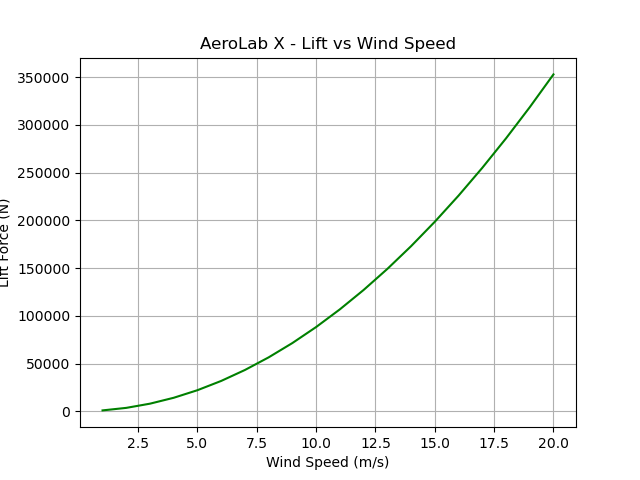
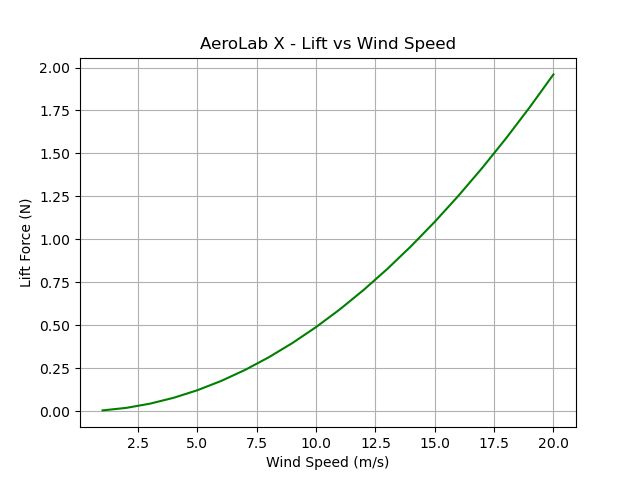
Release AeroLab X V1 : lift simulator and graphs

diff --git a/main.py b/main.py
@@ -1,25 +1,36 @@
+'''
+open main.py and run the program. this is terminal only for now. this only calculates lift. you will need to add the following as shown in the teminal. A graph will appear after the input. but i could not show it as it was not available on xbox game bar recording. 
+
+'''
 import matplotlib.pyplot as plt
 
 print("Welcome to the areodynamic lift calculator!")
 '''
 the equation for lift is : 0.5 * air density * speed^2 * wing area * lift coefficient
 '''
-
+#inputs 
 air_density = float(input("Enter the air density (in kg/m^3): "))
 wing_area = float(input("Enter the wing area (in m^2): "))  
 lift_coefficient = float(input("Enter the lift coefficient (dimensionless): "))
+
+
+#error message
 if air_density <= 0 or wing_area <= 0 or lift_coefficient <= 0:
     print("Error: All input values must be positive numbers.")
-
+#rest of the code 
 else:
+    #Global variables
     lift_values = []
     speed_values = []
+    drag_values = []
+    #looping to find drag and lift.
     for speed in range(1,21):
         lift = 0.5 * air_density * speed**2 * wing_area * lift_coefficient
         lift_values.append(lift)
         speed_values.append(speed)
-    print(speed_values)
-    print(lift_values)
+
+    #printing everything for the user to see the results
+    print(f"the lift is {lift_values}")
     plt.plot(speed_values , lift_values , color = "green")
     plt.title("AeroLab X - Lift vs Wind Speed")
     plt.xlabel("Wind Speed (m/s)")

diff --git a/README.md b/README.md
@@ -1,0 +1,3 @@
+This is a Aerodynamic simulator that calculates lift.
+
+open main.py and run the program and follow the instructions given in the terminal. this is only for terminal as of right now. I will  update it with a GUI shortly . 
